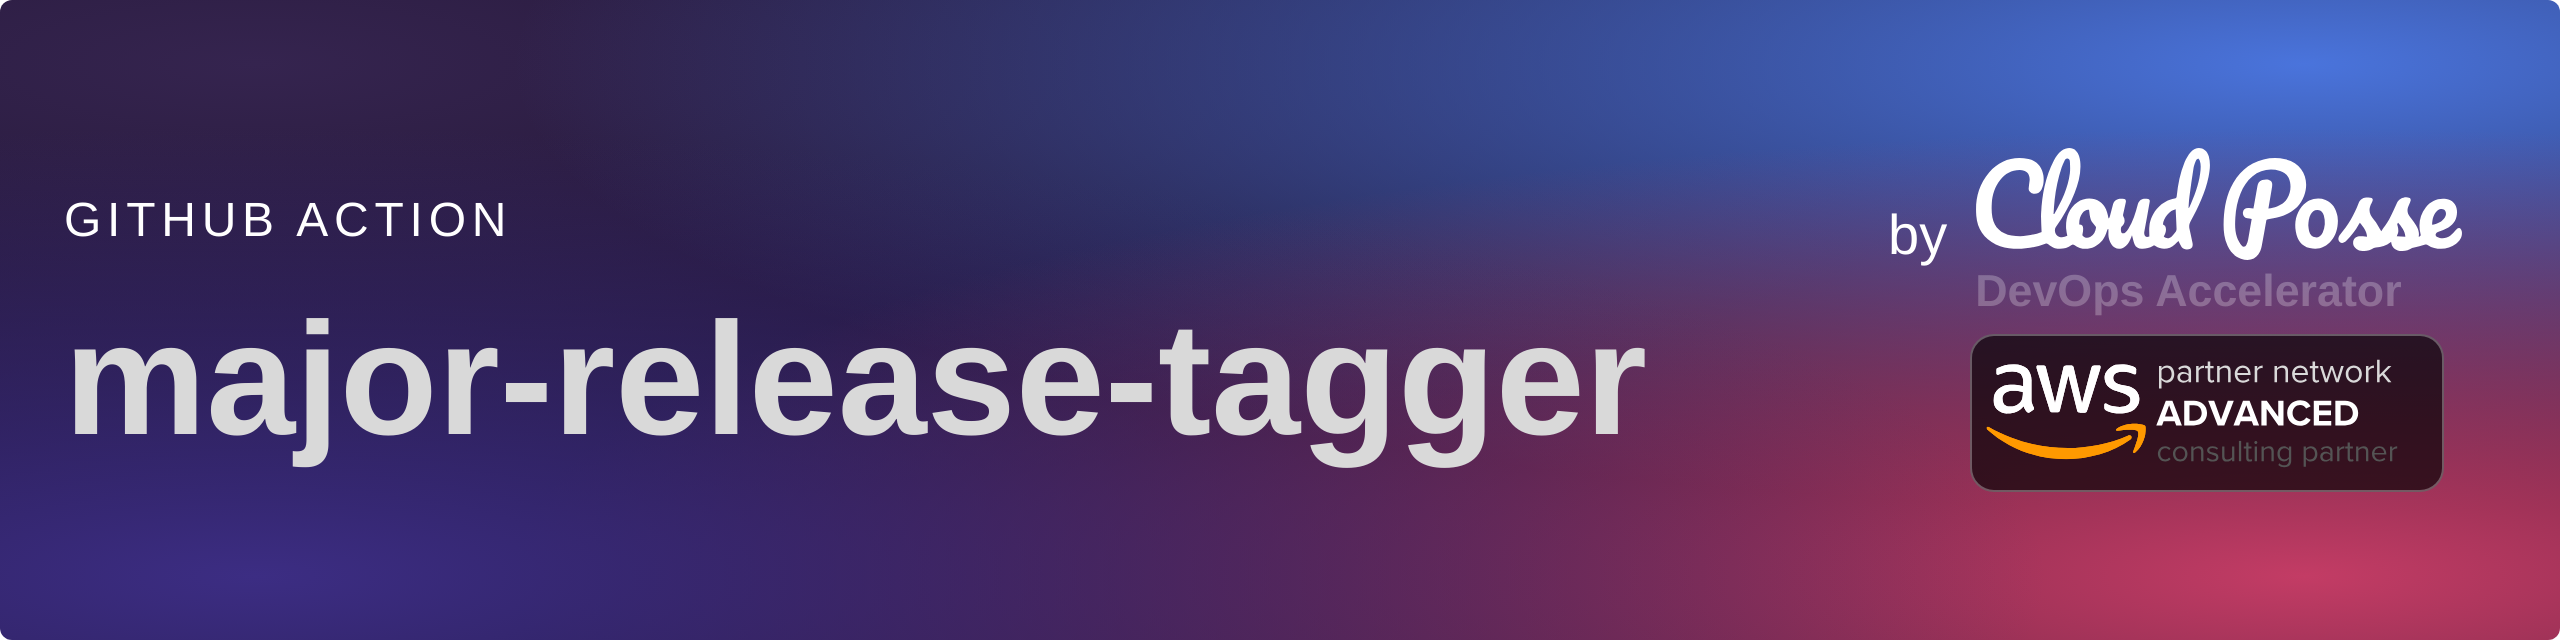
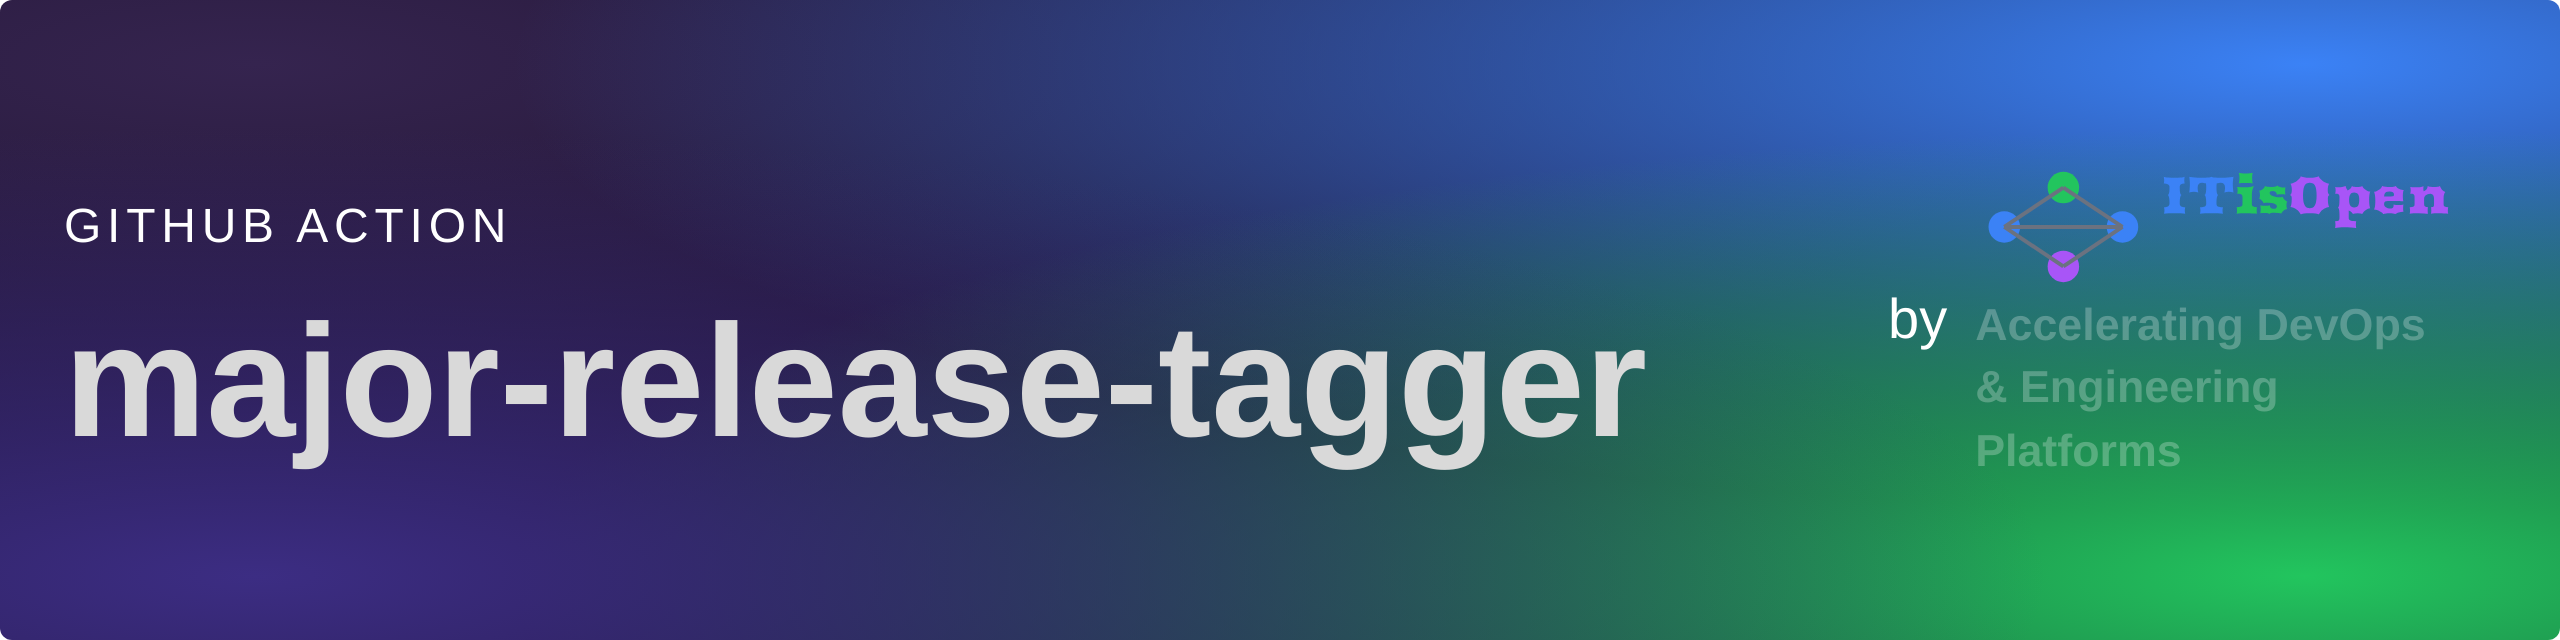
chore: update README.md

diff --git a/README.md b/README.md
@@ -1,8 +1,9 @@
 
 
 <!-- markdownlint-disable -->
-# github-action-major-release-tagger <a href="https://itisopen.net/homepage?utm_source=github&utm_medium=readme&utm_campaign=itisopen/github-action-major-release-tagger&utm_content="><img align="right" src="https://itisopen.net/logo-300x69.svg" width="150" /></a>
-<a href="https://github.com/itisopen/github-action-major-release-tagger/releases/latest"><img src="https://img.shields.io/github/release/itisopen/github-action-major-release-tagger.svg" alt="Latest Release"/></a><a href="https://slack.itisopen.net"><img src="https://slack.itisopen.net/for-the-badge.svg" alt="Slack Community"/></a>
+<a href="https://itisopen.net/homepage"><img src="https://github.com/itisopen/github-action-major-release-tagger/blob/itisopen/.github/banner.png?raw=true" alt="Project Banner"/></a><br/>
+    <p align="right">
+<a href="https://github.com/itisopen/github-action-major-release-tagger/releases/latest"><img src="https://img.shields.io/github/release/itisopen/github-action-major-release-tagger.svg" alt="Latest Release"/></a><a href="https://slack.itisopen.net"><img src="https://slack.itisopen.net/for-the-badge.svg" alt="Slack Community"/></a></p>
 <!-- markdownlint-restore -->
 
 <!--
